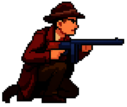
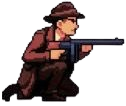
[add] versão final jogo

Changed region(s): [[0.0238, 0.0, 1.0, 0.9906], [0.0, 0.8491, 0.0952, 0.9906], [0.4048, 0.8491, 0.4524, 0.9057]]

diff --git a/src/main.c b/src/main.c
@@ -38,7 +38,7 @@ ALLEGRO_BITMAP **init_player_sprites(){
     player_sprites[1] = al_load_bitmap("assets/player/Jump.png");
     player_sprites[2] = al_load_bitmap("assets/player/Walk.png");
     player_sprites[3] = al_load_bitmap("assets/player/Shot.png");
-    player_sprites[4] = al_load_bitmap("assets/player/Crouch1.png");
+    player_sprites[4] = al_load_bitmap("assets/player/Crouch.png");
 
     return player_sprites;
 }
@@ -125,7 +125,7 @@ int main(){
     ALLEGRO_EVENT_QUEUE *queue = al_create_event_queue();
     ALLEGRO_FONT *font = al_load_ttf_font("assets/font.ttf", 64, 0);
     ALLEGRO_DISPLAY *disp = al_create_display(X_SCREEN, Y_SCREEN);
-    ALLEGRO_BITMAP *background = al_load_bitmap("assets/city/10.png");
+    ALLEGRO_BITMAP *background = al_load_bitmap("assets/city.png");
     ALLEGRO_BITMAP **player_sprites = init_player_sprites();
     ALLEGRO_BITMAP **raider_sprites = init_raider_sprites();
     ALLEGRO_BITMAP **boss_sprites = init_boss_sprites();
@@ -268,7 +268,7 @@ int main(){
                 // Verifica se ainda há raiders vivos
                 int raiders_vivos = 0;
                 for(int i = 0; i < N_RAIDERS; i++){
-                    if(raiders[i]){
+                    if(raiders[i]->stats->hp){
                         raiders_vivos++;
                     }
                 }
@@ -325,25 +325,23 @@ int main(){
 
                 // Controla os raiders
                 for(int i = 0; i < N_RAIDERS; i++){
-                    if(!raiders[i]) 
-                        continue;
-
-                    if(raider_on_screen(raiders[i], camera_x, camera_x + X_SCREEN)){
-                        if(raider_detect_character(raiders[i], player)){
-                            if(!raiders[i]->shot_timer){
-                                raider_shot(raiders[i]);
-                                raiders[i]->sprite = 1;
+                    if(raiders[i]->stats->hp){
+                        if(raider_on_screen(raiders[i], camera_x, camera_x + X_SCREEN)){
+                            if(raider_detect_character(raiders[i], player)){
+                                if(!raiders[i]->shot_timer){
+                                    raider_shot(raiders[i]);
+                                    raiders[i]->sprite = 1;
+                                }
+                            }
+                            else{
+                                raider_move(raiders[i]);
+                                raiders[i]->sprite = 0;
                             }
                         }
-                        else{
-                            raider_move(raiders[i]);
-                            raiders[i]->sprite = 0;
-                        }
+                        if(raiders[i]->shot_timer)
+                            raiders[i]->shot_timer--;
                     }
                     raider_update_bullets(raiders[i], camera_x, camera_x + X_SCREEN);
-                    
-                    if(raiders[i]->shot_timer)
-                        raiders[i]->shot_timer--;
                 }
 
                 if(boss_fight){
@@ -415,7 +413,7 @@ int main(){
                 float scale = 2.0;
                 int draw_w = frame_w * scale;
                 int draw_h = frame_h * scale;
-                //al_draw_filled_rectangle(draw_x - player->width/2, player->y - player->height/2, draw_x + player->width/2, player->y + player->height/2, al_map_rgb(255, 0, 0));
+        
                 if(player->sprite == 4)
                     al_draw_bitmap(player_sprites[player->sprite], draw_x - player->width/2 - 30, player->y - player->height/2 - 20, player->face ? 0 : ALLEGRO_FLIP_HORIZONTAL);
                 else
@@ -423,7 +421,7 @@ int main(){
 
                 draw_x = final_boss->stats->x - final_boss->stats->width/2 - camera_x;
                 draw_y = final_boss->stats->y - final_boss->stats->height/2;
-                //al_draw_filled_rectangle(draw_x, draw_y, draw_x + final_boss->stats->width, draw_y + final_boss->stats->height, al_map_rgb(255, 0, 0));
+                
                 al_draw_scaled_bitmap(boss_sprites[final_boss->sprite], 230, 28, 110, frame_h, draw_x - 50, final_boss->stats->y - draw_h, 2*272, 2*draw_h, final_boss->stats->face ? 0 : ALLEGRO_FLIP_HORIZONTAL);
 
                 // desenha as plataformas
@@ -431,7 +429,7 @@ int main(){
                     int start_x = platforms[i]->x - platforms[i]->width / 2 - camera_x;
                     int start_y = platforms[i]->y - platforms[i]->height / 2;
 
-                    int tiles_horizontal = (platforms[i]->width + tile_w - 1) / tile_w;  // ceil para garantir cobertura completa
+                    int tiles_horizontal = (platforms[i]->width + tile_w - 1) / tile_w;
 
                     for (int tx = 0; tx < tiles_horizontal; tx++) {
                         int draw_x = start_x + tx * tile_w;
@@ -445,17 +443,15 @@ int main(){
 
                 // desenha os raiders e suas balas
                 for(int i = 0; i < N_RAIDERS; i++){
-                    if(!raiders[i])
-                        continue;
+                    if(raiders[i]->stats->hp){
+                        draw_x = raiders[i]->stats->x - raiders[i]->stats->width / 2 - camera_x;
+                        draw_y = raiders[i]->stats->y - raiders[i]->stats->height / 2;
 
-                    draw_x = raiders[i]->stats->x - raiders[i]->stats->width / 2 - camera_x;
-                    draw_y = raiders[i]->stats->y - raiders[i]->stats->height / 2;
-
-                    //al_draw_filled_rectangle(draw_x, draw_y, draw_x + raiders[i]->stats->width, draw_y + raiders[i]->stats->height, al_map_rgb(0, 255, 0));
-                    if(!raiders[i]->sprite)
-                        al_draw_scaled_bitmap(raider_sprites[raiders[i]->sprite], 272, 28, 90, frame_h, draw_x - 100, raiders[i]->stats->y - draw_h / 2, 272, draw_h, raiders[i]->stats->face ? 0 : ALLEGRO_FLIP_HORIZONTAL);
-                    else
-                        al_draw_scaled_bitmap(raider_sprites[raiders[i]->sprite], 240, 28, 90, frame_h, draw_x - 100, raiders[i]->stats->y - draw_h / 2, 272, draw_h, raiders[i]->stats->face ? 0 : ALLEGRO_FLIP_HORIZONTAL);
+                        if(!raiders[i]->sprite)
+                            al_draw_scaled_bitmap(raider_sprites[raiders[i]->sprite], 272, 28, 90, frame_h, draw_x - 100, raiders[i]->stats->y - draw_h / 2, 272, draw_h, raiders[i]->stats->face ? 0 : ALLEGRO_FLIP_HORIZONTAL);
+                        else
+                            al_draw_scaled_bitmap(raider_sprites[raiders[i]->sprite], 240, 28, 90, frame_h, draw_x - 100, raiders[i]->stats->y - draw_h / 2, 272, draw_h, raiders[i]->stats->face ? 0 : ALLEGRO_FLIP_HORIZONTAL);
+                    }
 
                     for(bullet *index = raiders[i]->rifle->shots; index != NULL; index = index->next){
                         unsigned short bullet_draw_x = index->x - camera_x;
@@ -548,9 +544,7 @@ int main(){
         platform_destroy(platforms[i]);
 
     for(int i = 0; i < N_RAIDERS; i++)
-        if(raiders[i])
-            raider_destroy(raiders[i]);
-    
+        raider_destroy(raiders[i]);
     
     for(int i = 0; i < N_PLAYER_SPRITES; i++)
         al_destroy_bitmap(player_sprites[i]);

diff --git a/src/enemy.c b/src/enemy.c
@@ -177,14 +177,12 @@ void player_bullets_collision_raiders(character *player, raider **raiders, unsig
         next = (bullet*) index->next;                
 
         for(int i = 0; i < n_raiders; i++){
-            if(!raiders[i])
+            if(!raiders[i]->stats->hp)
                 continue;
                     
             if(raider_hit_bullet(raiders[i], index)){
-                if(raiders[i]->stats->hp == 1){
-                    raider_destroy(raiders[i]);
-                    raiders[i] = NULL;
-                }
+                if(raiders[i]->stats->hp <= 1)
+                    raiders[i]->stats->hp = 0;
                 else
                     raiders[i]->stats->hp--;
 
@@ -297,10 +295,10 @@ int boss_collision(boss *element, character *player) {
 
     // Verifica colisão
     if(boss_right > player_left && boss_left < player_right && boss_bottom > player_top && boss_top < player_bottom){
-        return 1; // Há colisão
+        return 1;
     }
 
-    return 0; // Sem colisão
+    return 0;
 }
 
 int boss_hit_bullet(boss *element, bullet *shot){
